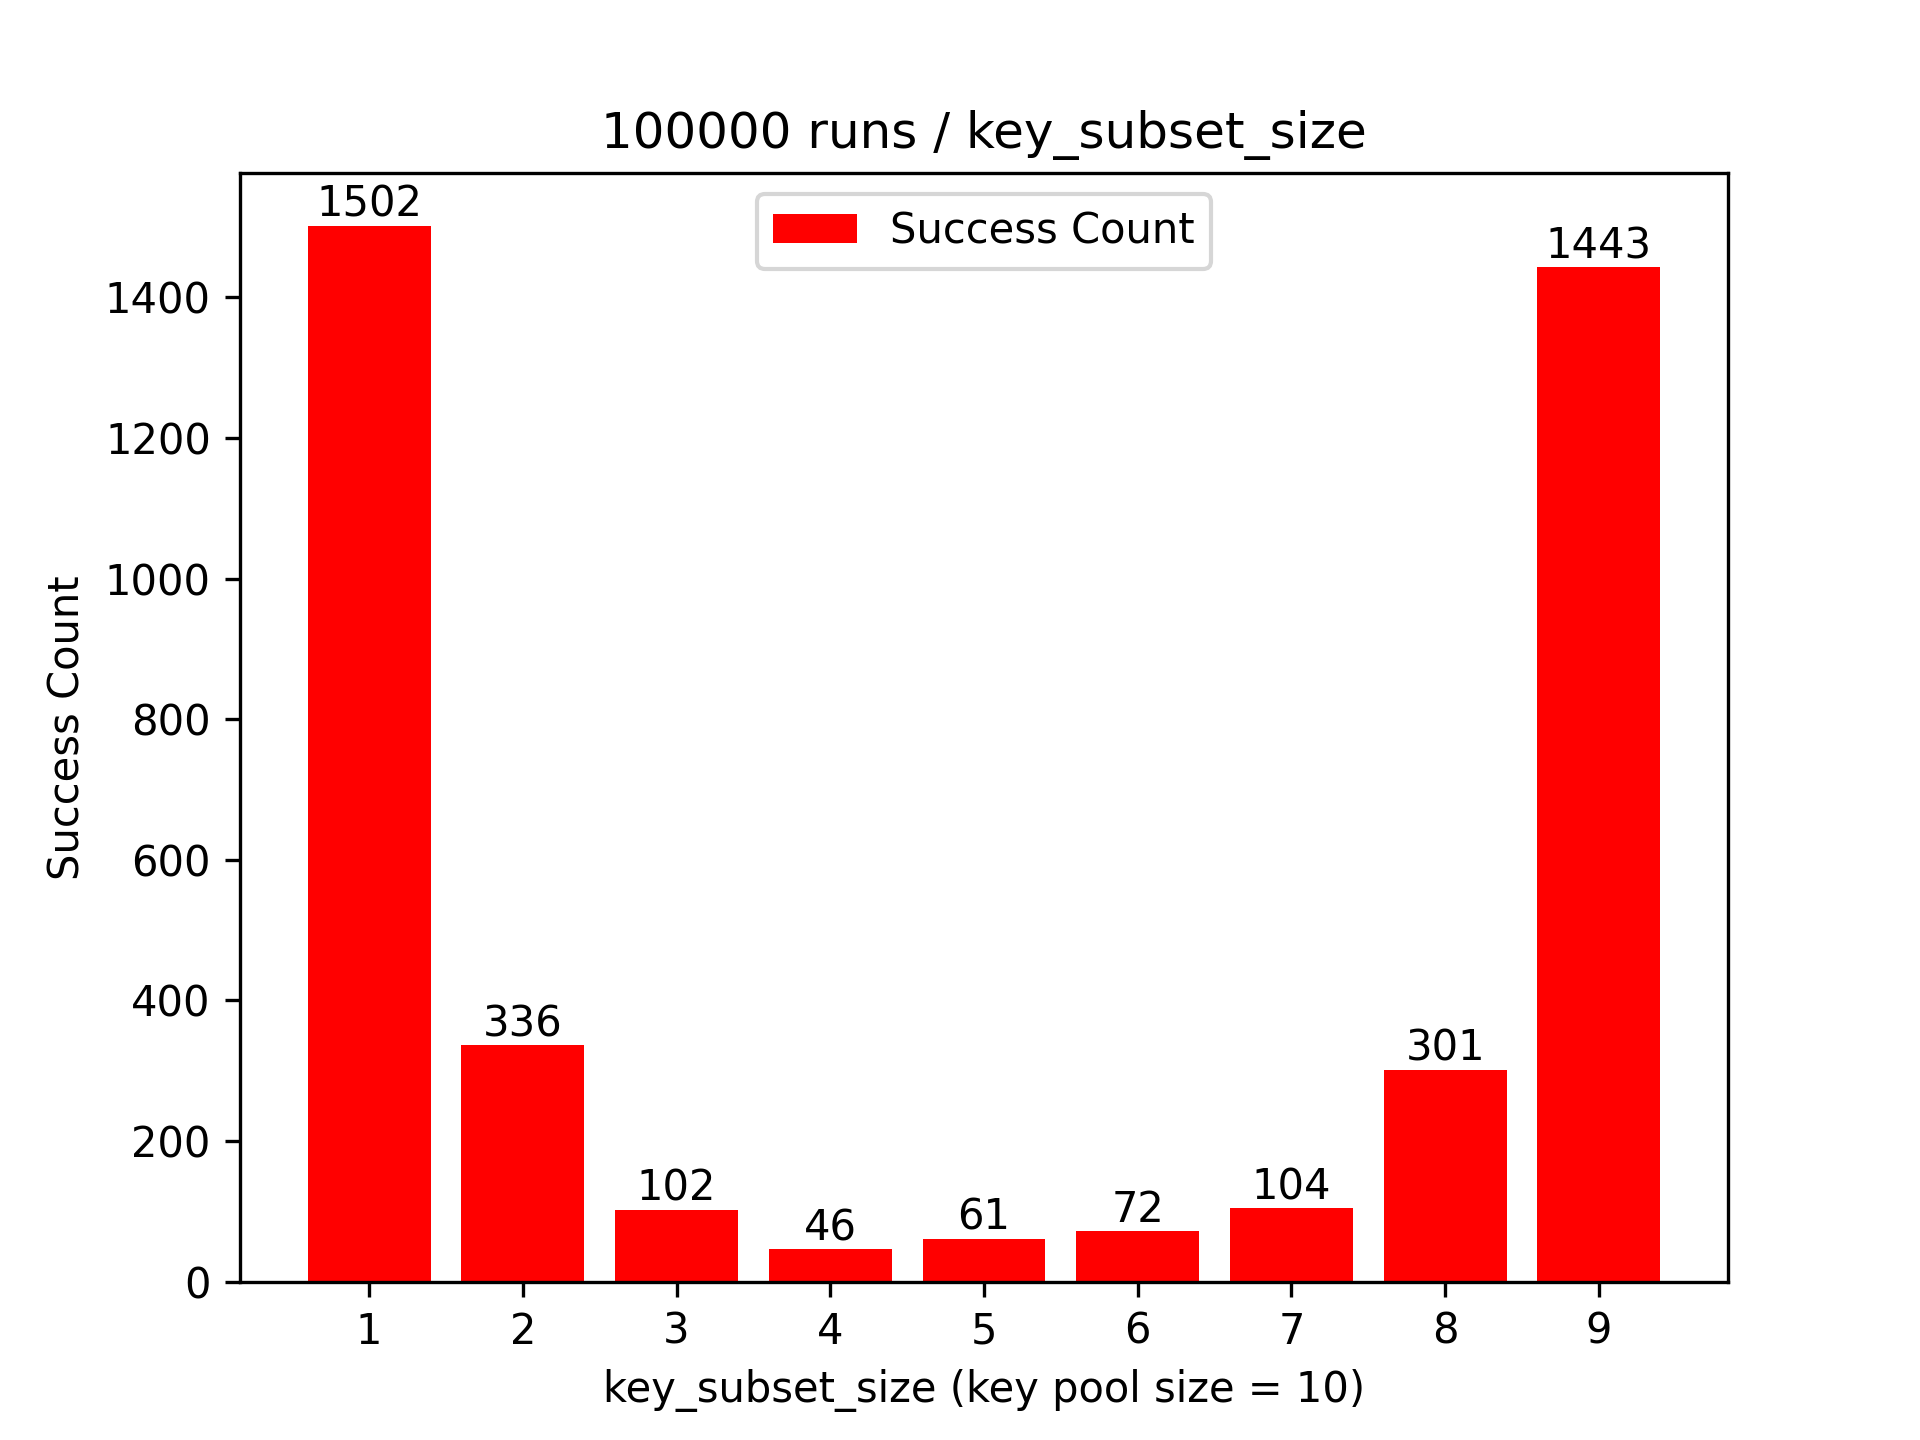
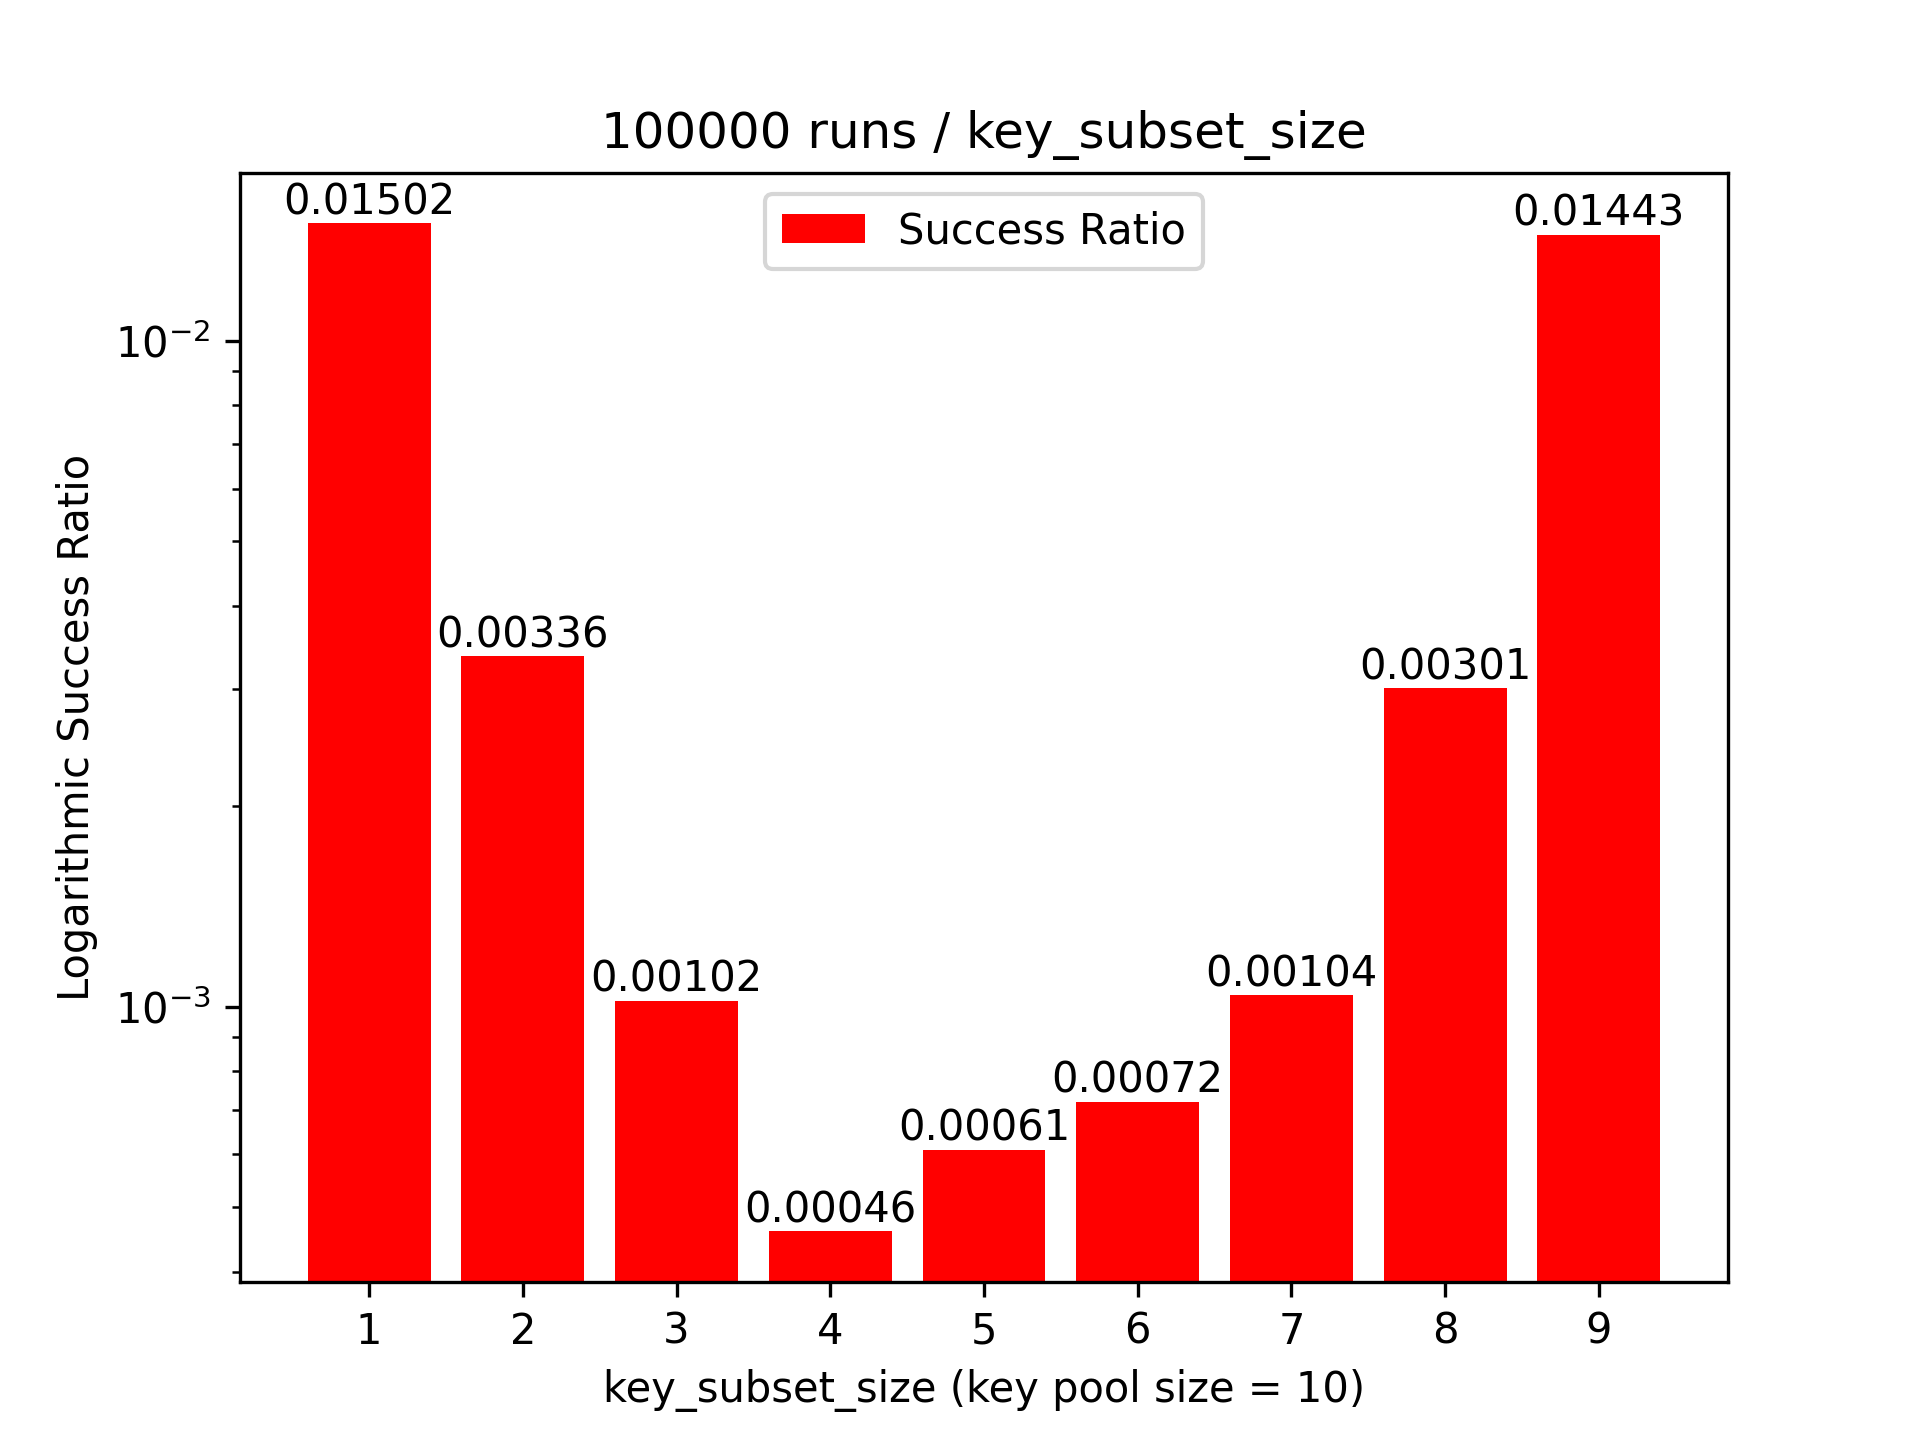
set y-axis to log

diff --git a/networkAnalysis/pr.py b/networkAnalysis/pr.py
@@ -3,6 +3,7 @@ from typing import Set, List
 
 import networkx as nx
 import matplotlib.pyplot as plt
+import matplotlib.ticker as mticker
 import pandas as pd
 import numpy as np
 
@@ -280,14 +281,17 @@ class Attacker:
 
 def plot_for_dpa_random(runs: int, subset_sizes: int):
     plt.figure()
+    plt.yscale('log')
+
     x_data = [i for i in range(1, subset_sizes + 1)]
     y_data = []
     for keys in range(1, subset_sizes + 1):
         df = pd.read_csv(f'./networkAnalysis/dpa_random/results_{runs}runs_{keys}keys.csv')
         success_count = (df['is_success'] == True).sum()
-        y_data.append(success_count)
+        success_ratio = max(success_count / runs, 1e-10)
+        y_data.append(success_ratio)
 
-    bars = plt.bar(x_data, y_data, color='red', label='Success Count')
+    bars = plt.bar(x_data, y_data, color='red', label='Success Ratio')
 
     for bar in bars:
         yval = bar.get_height()
@@ -295,7 +299,7 @@ def plot_for_dpa_random(runs: int, subset_sizes: int):
 
     plt.title(f'{runs} runs / key_subset_size')
     plt.xlabel(f'key_subset_size (key pool size = {subset_sizes + 1})')
-    plt.ylabel('Success Count')
+    plt.ylabel('Logarithmic Success Ratio')
     plt.xticks(x_data)
     plt.legend()
     plt.savefig(f'./networkAnalysis/dpa_random/plot_{runs}runs.png', dpi=300)
@@ -303,7 +307,9 @@ def plot_for_dpa_random(runs: int, subset_sizes: int):
 
 
 def plot_for_dpa_fix(runs: int, subset_sizes: int, hops: int):
-    plt.figure()
+    plt.figure(figsize=(10, 6))
+    plt.yscale('log')
+
     x_data = [i for i in range(1, subset_sizes + 1)]
     for hops in range(1, hops + 1):
         y_data = []
@@ -311,56 +317,67 @@ def plot_for_dpa_fix(runs: int, subset_sizes: int, hops: int):
         for keys in range(1, subset_sizes + 1):
             df = pd.read_csv(f'./networkAnalysis/dpa_fix/results_{runs}runs_{keys}keys_{hops}hops.csv')
             success_count = (df['is_success'] == True).sum()
-            y_data.append(success_count)
+            success_ratio = max(success_count / runs, 1e-10)
+            y_data.append(success_ratio)
 
         plt.plot(x_data, y_data, label=f'{hops} hops')
 
-        for i, v in enumerate(y_data):
-            plt.text(x_data[i], v, v, va='bottom', ha='center')
+        # for i, v in enumerate(y_data):
+        #     plt.text(x_data[i], v, f'{v:.2f}', va='bottom', ha='center')
 
     plt.title(f'{runs} runs / key_subset_size / hop')
     plt.xlabel(f'key_subset_size (key pool size = {subset_sizes + 1})')
-    plt.ylabel('Success Count')
+    plt.ylabel('Logarithmic Success Ratio')
     plt.xticks(x_data)
-    plt.legend()
+    plt.legend(loc='upper right')
     plt.savefig(f'./networkAnalysis/dpa_fix/plot_{runs}runs.png', dpi=300)
+    # plt.show()
     plt.close()
 
 
 def plot_3d_for_dpa_fix(runs: int, subset_sizes: int, hops: int):
-    fig = plt.figure()
-    ax = fig.add_subplot(111, projection='3d')
 
-    x_data, y_data, z_data = [], [], []
+    def log_tick_formatter(val, pos=None):
+        return r"$10^{{{:.0f}}}$".format(val)
+
+    fig = plt.figure(figsize=(12, 12))
+    ax = fig.add_subplot(1, 1, 1, projection='3d')
+    # ax.zaxis._set_scale('log')  # plt bug
+    ax.zaxis.set_major_formatter(mticker.FuncFormatter(log_tick_formatter))
+    ax.set_zticklabels(['$10^{-10}$', '$10^{-8}$', '$10^{-6}$', '$10^{-4}$', '$10^{-2}$', '$10^{0}$'])
+
+    # 设置柱体大小和间隙
+    dx, dy = 0.4, 0.4  # 柱体在X和Y轴的宽度，小于1则会产生间隙
+
+    colors = {
+        1: '#1f77b4', 2: '#ff7f0e', 3: '#2ca02c', 4: '#d62728',
+        5: '#9467bd', 6: '#8c564b', 7: '#e377c2', 8: '#7f7f7f',
+        9: '#bcbd22', 10: '#17becf'
+    }
 
     for hop in range(1, hops + 1):
         for keys in range(1, subset_sizes + 1):
             df = pd.read_csv(f'./networkAnalysis/dpa_fix/results_{runs}runs_{keys}keys_{hop}hops.csv')
             success_count = (df['is_success'] == True).sum()
+            success_ratio = max(success_count / runs, 1e-10)
+            success_ratio_log = 10 + np.log10(success_ratio)
+            # success_ratio_log = np.log10(success_ratio)
 
-            x_data.append(hop)
-            y_data.append(keys)
-            z_data.append(success_count)
+            color = colors.get(hop, '#000000')  # 如果hop值不在字典中，则使用默认颜色（黑色）
+            ax.bar3d(x=hop - dx / 2, y=keys - dy / 2, z=0, dx=dx, dy=dy, dz=success_ratio_log, color=color, alpha=0.8, shade=True)
 
-    x_data = np.array(x_data)
-    y_data = np.array(y_data)
-    z_data = np.array(z_data)
-
-    # 创建网格数据
-    X, Y = np.meshgrid(np.unique(x_data), np.unique(y_data))
-    Z = z_data.reshape(len(np.unique(y_data)), len(np.unique(x_data)))
-
-    # 绘制三维曲面图，使用coolwarm颜色映射
-    surf = ax.plot_surface(X, Y, Z, cmap='coolwarm')
-
+    ax.set_title(f'{runs} runs / key_subset_size / hop')
     ax.set_xlabel('Hops')
-    ax.set_ylabel('Keys')
-    ax.set_zlabel('Success Count')
+    ax.set_ylabel('Key Subset Size')
+    ax.set_zlabel('Logarithmic Success Ratio')
+    ax.set_xticks(range(1, hops + 1))
+    ax.set_yticks(range(1, subset_sizes + 1))
+    # elevation 仰角，azimuth 方位角
+    ax.view_init(elev=20, azim=-15)
+    plt.savefig(f'./networkAnalysis/dpa_fix/plot_{runs}runs_3D.png', dpi=300)
+    # plt.show()
+    plt.close()
 
-    # 添加颜色条
-    fig.colorbar(surf, ax=ax, shrink=0.5, aspect=5)
-    plt.title(f'{runs} runs / key_subset_size / hop')
-    plt.savefig(f'./networkAnalysis/dpa_fix/plot_3d_{runs}runs.png', dpi=300)
 
 if __name__ == "__main__":
     runs = 100000
